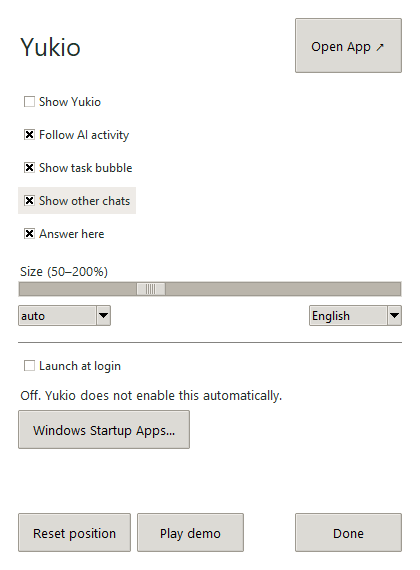
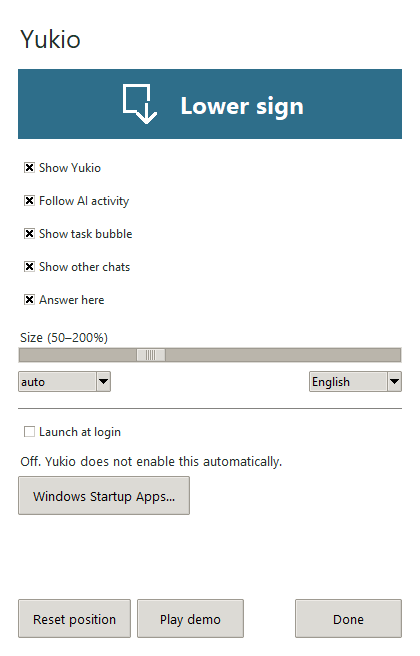
Use click event coordinates and record successful Windows release verification

diff --git a/YukioPlayer/Sources/YukioPlayer/SettingsOutsideClickMonitor.swift b/YukioPlayer/Sources/YukioPlayer/SettingsOutsideClickMonitor.swift
@@ -13,7 +13,9 @@ final class SettingsOutsideClickMonitor {
                   window.attachedSheet == nil else { return }
             if event.window === window { return }
             // Include the title bar; menu tracking is handled by the controller.
-            if !window.frame.contains(NSEvent.mouseLocation) { dismiss() }
+            let point = event.window.map { $0.convertPoint(toScreen: event.locationInWindow) }
+                ?? event.locationInWindow
+            if !window.frame.contains(point) { dismiss() }
         }
         let mask: NSEvent.EventTypeMask = [.leftMouseDown, .rightMouseDown, .otherMouseDown]
         local = NSEvent.addLocalMonitorForEvents(matching: mask) { event in
